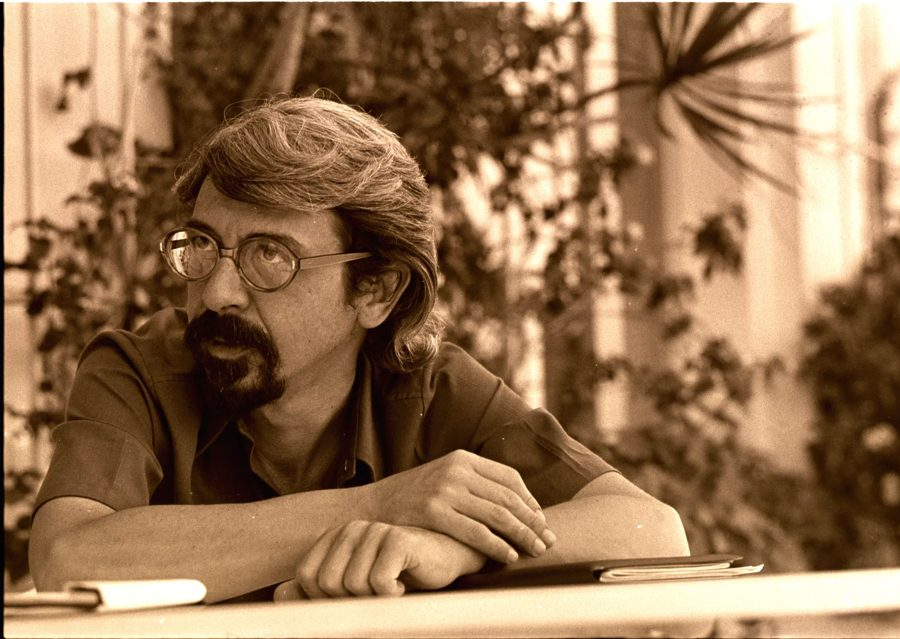
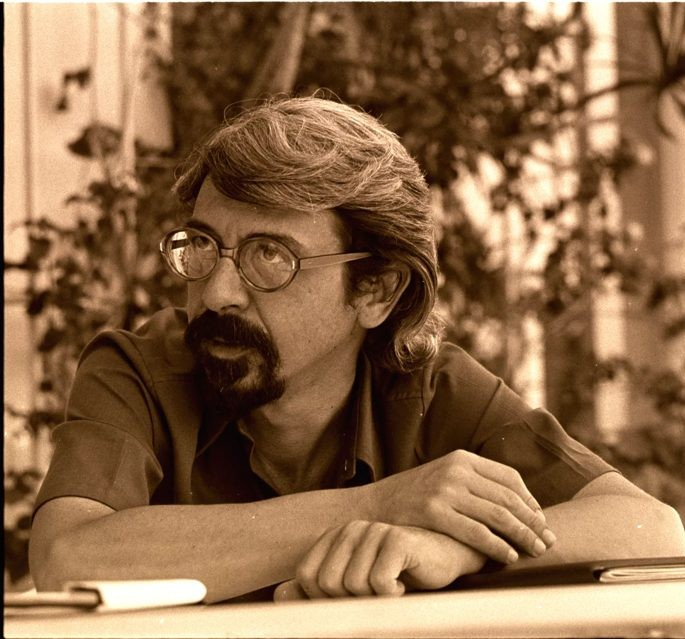
Atualização do front-end

diff --git a/site-tropicalismo/site/script.js b/site-tropicalismo/site/script.js
@@ -48,6 +48,52 @@ document.querySelectorAll('.tl-btn').forEach(btn => {
   });
 });
 
+// ===== Perfis dos artistas =====
+const PERFIS = {
+  'Caetano Veloso': {
+    meta: 'Santo Amaro (BA) · nascido em 1942',
+    bio: ['Compositor, cantor e um dos principais articuladores do Tropicalismo. Chamou atenção no Festival da Record de 1967 com "Alegria, Alegria", acompanhado por guitarras elétricas, algo que dividiu o público.',
+      'Em 1968, o discurso em "É Proibido Proibir" mostrou o choque entre a nova estética e a plateia. Depois do AI-5, foi preso e, em 1969, partiu para o exílio em Londres, de onde só voltou em 1972.'],
+    obras: ['Alegria, Alegria', 'Tropicália', 'Sampa']
+  },
+  'Gilberto Gil': {
+    meta: 'Salvador (BA) · nascido em 1942',
+    bio: ['Cantor, violonista e compositor que uniu baião, samba, rock e música pop. Com Os Mutantes, levou "Domingo no Parque" ao festival de 1967 e transformou a canção em um dos marcos do movimento.',
+      'Preso em 1968 e exilado em Londres, seguiu produzindo. Décadas depois, foi ministro da Cultura do Brasil, entre 2003 e 2008.'],
+    obras: ['Domingo no Parque', 'Aquele Abraço', 'Expresso 2222']
+  },
+  'Gal Costa': {
+    meta: 'Salvador (BA) · 1945–2022',
+    bio: ['Uma das vozes mais marcantes do grupo. Participou do álbum-manifesto "Tropicália ou Panis et Circencis" e interpretou, no festival de 1968, "Divino, Maravilhoso", de Caetano e Gil.',
+      'Nos primeiros anos da década de 1970, abraçou o visual e o som da contracultura. Sua carreira, de mais de cinco décadas, a tornou uma das grandes intérpretes da música brasileira.'],
+    obras: ['Divino, Maravilhoso', 'Baby', 'Meu Nome é Gal']
+  },
+  'Os Mutantes': {
+    meta: 'São Paulo (SP) · formados em 1966',
+    bio: ['Banda formada por Arnaldo Baptista, Sérgio Dias e Rita Lee. Misturou rock psicodélico, humor, fuzz de guitarra e efeitos feitos em casa, aproximando o Tropicalismo da música pop internacional.',
+      'Acompanharam Gilberto Gil e Caetano Veloso nos festivais e gravaram discos próprios em 1968 e 1970. Rita Lee deixou o grupo em 1972.'],
+    obras: ['Panis et Circenses', 'A Minha Menina', 'Ando Meio Desligado']
+  },
+  'Tom Zé': {
+    meta: 'Irará (BA) · nascido em 1936',
+    bio: ['Compositor e experimentador que transformou ruídos, objetos e a própria linguagem em matéria de canção. Venceu o Festival da Record de 1968 com "São, São Paulo, Meu Amor".',
+      'Teve atuação mais discreta nos anos 1970, mas foi redescoberto internacionalmente na década de 1990 e é visto como um dos nomes mais inventivos da música brasileira.'],
+    obras: ['São, São Paulo, Meu Amor', 'Estudando o Samba', 'Jimmy, Renda-se']
+  },
+  'Torquato Neto': {
+    meta: 'Teresina (PI) · 1944–1972',
+    bio: ['Poeta, letrista e jornalista, foi uma das mentes do movimento. Escreveu letras em parceria com Gilberto Gil, Caetano Veloso e Edu Lobo, e participou do álbum coletivo "Tropicália".',
+      'Em seus textos de jornal e em experimentos de cinema e poesia, defendeu uma arte livre e provocativa. Morreu em 1972, aos 28 anos, e sua obra segue sendo redescoberta.'],
+    obras: ['Geleia Geral', 'Mamãe, Coragem', 'Pra Dizer Adeus']
+  },
+  'Rogério Duprat': {
+    meta: 'Rio de Janeiro (RJ) · 1932–2006',
+    bio: ['Maestro, arranjador e compositor ligado à música de vanguarda. Levou para a música popular orquestrações, ruídos e ideias da música erudita contemporânea.',
+      'Assinou arranjos do álbum "Tropicália ou Panis et Circencis" e de canções como "Domingo no Parque", dando ao movimento parte de sua sonoridade ousada.'],
+    obras: ['Tropicália ou Panis et Circencis', 'Domingo no Parque', 'Os Mutantes (1968)']
+  }
+};
+
 // ===== Modal de artistas =====
 const modal = document.getElementById('modal');
 const mImg = document.getElementById('m-img');
@@ -61,6 +107,10 @@ function openModal(btn) {
   mImg.alt = btn.dataset.nome;
   mNome.textContent = btn.dataset.nome;
   mPapel.innerHTML = btn.dataset.papel;
+  const p = PERFIS[btn.dataset.nome];
+  document.getElementById('m-meta').textContent = p ? p.meta : '';
+  document.getElementById('m-bio').innerHTML = p ? p.bio.map(t => `<p>${t}</p>`).join('') : '';
+  document.getElementById('m-works').innerHTML = p ? p.obras.map(o => `<li>${o}</li>`).join('') : '';
   modal.classList.add('open');
   modal.setAttribute('aria-hidden', 'false');
   document.body.style.overflow = 'hidden';

diff --git a/site-tropicalismo/site/style.css b/site-tropicalismo/site/style.css
@@ -151,8 +151,9 @@ button {
   display: flex;
   flex-direction: column;
   justify-content: center;
+  text-align: center;
   padding: 7rem 1.5rem 5rem;
-  background: var(--blue);
+  background: var(--ink);
   overflow: hidden;
   border-bottom: 3px solid var(--ink);
 }
@@ -200,7 +201,7 @@ h2 em {
 
 .btn {
   display: inline-block;
-  background: var(--ink);
+  border-style: dotted;
   color: var(--cream);
   padding: .95rem 2.2rem;
   border-radius: 999px;
@@ -208,7 +209,6 @@ h2 em {
   letter-spacing: .08em;
   text-transform: uppercase;
   font-size: .85rem;
-  box-shadow: 5px 5px 0 var(--orange);
   transition: transform .2s, box-shadow .2s;
 }
 
@@ -1357,5 +1357,60 @@ h2 em {
 
     .burst {
       display: none
+    }
+  }
+
+  /* perfis dos artistas */
+  .modal-info {
+    max-height: 90vh;
+    overflow-y: auto
+  }
+
+  .m-meta {
+    display: block;
+    font-size: .8rem;
+    opacity: .65;
+    margin: -.4rem 0 1rem
+  }
+
+  #m-bio p {
+    font-size: .98rem;
+    line-height: 1.65
+  }
+
+  #m-bio p+p {
+    margin-top: .8rem
+  }
+
+  .m-label {
+    margin-top: 1.3rem;
+    text-transform: uppercase;
+    letter-spacing: .16em;
+    font-size: .72rem;
+    font-weight: 600;
+    color: var(--pink)
+  }
+
+  .m-works {
+    list-style: none;
+    display: flex;
+    flex-wrap: wrap;
+    gap: .5rem;
+    margin-top: .6rem
+  }
+
+  .m-works li {
+    border: 2px solid var(--ink);
+    border-radius: 999px;
+    padding: .2rem .8rem;
+    font-size: .82rem;
+    font-weight: 500;
+    background: #fff
+  }
+
+  @media (max-width:760px) {
+    .modal-info {
+      max-height: none;
+      padding: 1.6rem
     }
   }

diff --git a/site-tropicalismo/site/index.html b/site-tropicalismo/site/index.html
@@ -400,7 +400,7 @@
     <div class="wrap foot-grid">
       <div>
         <div class="logo big">TROPICALISMO</div>
-        <p>Um projeto de Amanda, Eduardo, Henri, Pedro, Nicolas e Luis.</p>
+        <p>Um projeto por Amanda, Eduardo, Henri, Luis, Nicolas e Pedro.</p>
         <p class="motto">Onde há mistura, há movimento.</p>
       </div>
       <nav class="foot-nav">
@@ -419,8 +419,10 @@
       <div class="modal-info">
         <small id="m-papel"></small>
         <h3 id="m-nome"></h3>
-        <!-- SUBSTITUIR: adicione aqui a biografia/pesquisa do grupo sobre cada artista -->
-        <p>Perfil em construção — o grupo incluirá aqui a pesquisa sobre o artista.</p>
+        <span class="m-meta" id="m-meta"></span>
+        <div id="m-bio"></div>
+        <p class="m-label">Para ouvir</p>
+        <ul class="m-works" id="m-works"></ul>
       </div>
     </div>
   </div>
